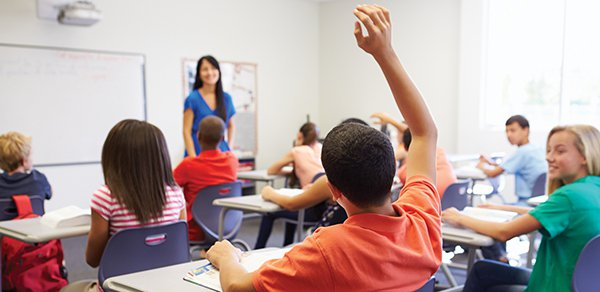
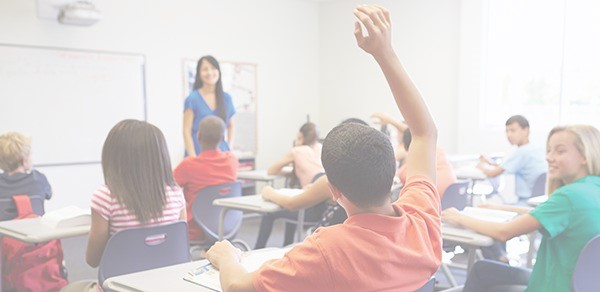
CSS for sign in

diff --git a/src/components/Post/Post.jsx b/src/components/Post/Post.jsx
@@ -1,0 +1,41 @@
+import React from 'react';
+import { Col, Button, Form, FormGroup, Label, Input, FormText, Jumbotron, Container, CustomInput} from 'reactstrap';
+
+export default class Post extends React.Component {
+    render() {
+        return (
+            <Container>
+                <Jumbotron>
+                    <Form>
+                        <FormGroup>
+                                <CustomInput type="radio" id="exampleCustomRadio" name="customRadio" label="I want to learn!" />
+                                <CustomInput type="radio" id="exampleCustomRadio2" name="customRadio" label="I want to teach!" />
+
+                        </FormGroup>
+                        <FormGroup>
+                            <Label for="title">Title</Label>
+                            <Input />
+                        </FormGroup>
+                        <FormGroup>
+                            <Label for="description">Description</Label>
+                            <Input type="textarea" name="text" id="description" />
+                        </FormGroup>
+                        <FormGroup>
+                            <Label for="price">Price</Label>
+                            <Input />
+                        </FormGroup>
+                        <FormGroup>
+                            <Label for="location">Location</Label>
+                            <Input />
+                        </FormGroup>
+                        <FormGroup>
+                            <Label for="subject">Subject</Label>
+                            <Input />
+                        </FormGroup>
+                        <Button>Submit</Button>
+                    </Form>
+                </Jumbotron>
+            </Container>
+        );
+    }
+}

diff --git a/src/components/LoginPage/SignInBox/SignInBox.css b/src/components/LoginPage/SignInBox/SignInBox.css
@@ -4,16 +4,15 @@
 	border-color: #326FA6;
 	border-radius: 20px;
 	text-align: center;
-	width: 25%;
-	margin-top: 5%;
-	margin-bottom: 5%;
+	min-width: 300px;
+	width: 300px;
 	font-family: Calibri;
+	height: 500px;
 }
 
-.logo {
-	margin-top: 10%;
-	width: 62.5%;
-	height: 20%
+.bookLogo {
+	margin-top: 30px;
+	height: 15%;
 }
 .logo-name {
 	font-family: "High Tower Text";
@@ -21,50 +20,6 @@
 	color: #326FA6;
 }
 
-.input {
-	margin-top: 3%;
-	width: 50%;
-	vertical-align: top;
-	margin-bottom: 0;
-	height: 5%;
-	border: 1px solid #326FA6;
-}
-
-.input::placeholder {
-	font-family: Calibri;
-	text-align: center;
-}
-.forget {
-	margin-top: 0;
-	text-align: left;
-	width: 50%;
-	font-family: Calibri;
-	font-size: 0.6em;
-	text-decoration: underline;
-	margin-left: 25%;
-	vertical-align: text-top;
-	cursor: pointer;
-}
-
-.button {
-	width: 50%;
-	height: 7%;
-	background-color: #ffffff;
-	display: inline-block;
-	transition-duration: 0.4s;
-  	cursor: pointer;
-  	border-radius: 3px;
-  	border: 2px solid #326FA6;
-}
-
-.login-button {
-	color: #326FA6;
-}
-
-.login-button:hover {
-  background-color: #326FA6;
-  color: white;
-}
 
 .sign-out-button {
 	background-color: #326FA6;

diff --git a/src/components/Nav/NavbarHome.jsx b/src/components/Nav/NavbarHome.jsx
@@ -45,7 +45,7 @@ export default class NavbarHome extends React.Component {
                 <NavLink href="/user"><img className="navicon right" src={firebase.auth().currentUser.photoURL}/></NavLink>
               </NavItem>
               <NavItem className="button-item">
-              <Button color="secondary" className="Button">Post</Button>{' '}
+              <Button color="secondary" className="Button" href="/Post">Post</Button>{' '}
               </NavItem>
               <NavItem className="button-item">
               <Button color="danger" className="Button" onClick={() => firebase.auth().signOut()} href="/">  Log Out</Button>{' '}

diff --git a/src/components/LoginPage/SignInBox/SignInBox.js b/src/components/LoginPage/SignInBox/SignInBox.js
@@ -8,17 +8,8 @@ class SignIn extends React.Component {
 	render() {
 	return (
 		<div className="box">
-			<img className="logo" src={logo} />
+			<img className="bookLogo" src={logo} />
 			<h1 className="logo-name">Tutoree</h1>
-			{/* <input className="input username" type="text" placeholder="Username" />
-			<br/>
-			<input className="input password" type="password" placeholder="Password" />
-			<p className="forget">Forgot password?</p>
-			<button className="button login-button">login</button>
-			<div className="or">
-			OR
-			</div>
-			<button className="button sign-up-button">Sign Up</button> */}
 			<LoginButtons/>
 			<br/>
  

diff --git a/src/components/Routes/Routes.js b/src/components/Routes/Routes.js
@@ -3,6 +3,7 @@ import { Route, Switch, BrowserRouter as Router } from "react-router-dom"
 import Login from '../LoginPage/Login';
 import Home from '../HomePage/Home';
 import NotFound from './NotFound';
+import Post from '../Post/Post';
 
 const Routes = () => {
     return (
@@ -11,6 +12,7 @@ const Routes = () => {
                 <Switch>
                     <Route exact path="/" component={Login} />
                     <Route path="/Home" component={Home} />
+                    <Route path="/Post" component={Post} />
                     <Route component={Home} />
                 </Switch>
             </Router>

diff --git a/src/components/LoginPage/Login.css b/src/components/LoginPage/Login.css
@@ -1,20 +1,14 @@
-.Login::before {
-background-image: url(Teacher-Classroom-Blog-Getty.jpg);
-background-repeat: no-repeat;
-background-size: cover;
-content: "";
-display: block;
-position: absolute;
-top: 0;
-left: 0;
-width: 100%;
-height: 100%;
-z-index: -2;
-opacity: 0.4;
-}
 
 .Login {
   display: flex;
+  flex-wrap: wrap-reverse;
+  justify-content: space-around;
+  align-items: center;
+  background-image: url(Teacher-Classroom-Blog-Getty.jpg);
+  background-repeat: no-repeat;
+  background-size: cover;
+  background-attachment: fixed;
+  background-repeat: no-repeat;
 }
 
 /* .sign-in {

diff --git a/src/components/LoginPage/Login.js b/src/components/LoginPage/Login.js
@@ -2,12 +2,13 @@ import React from 'react';
 import './Login.css'
 import SignIn from  './SignInBox/SignInBox'; 
 import Catchphrse from './Catchphrase/Catchphrase';
+import { Container, Row, Col } from 'reactstrap';
 
 function Login() {
   return (
     <div className="Login">
-      <Catchphrse/>
-      <SignIn/>
+        <Catchphrse/>
+        <SignIn/>
     </div>
   );
 }

diff --git a/src/components/LoginPage/Catchphrase/Catchphrase.css b/src/components/LoginPage/Catchphrase/Catchphrase.css
@@ -5,6 +5,7 @@
   color: #326FA6;
   height: 50%;
   width: 40%;
+  min-width: 300px;
   font-size: 50px;
   font-style: italic;
   min-height: 100vh;
@@ -13,5 +14,4 @@
   align-items: left;
   justify-content: center;
   font-size: calc(10px + 2vmin);
-  margin-left: 158px;
 }
